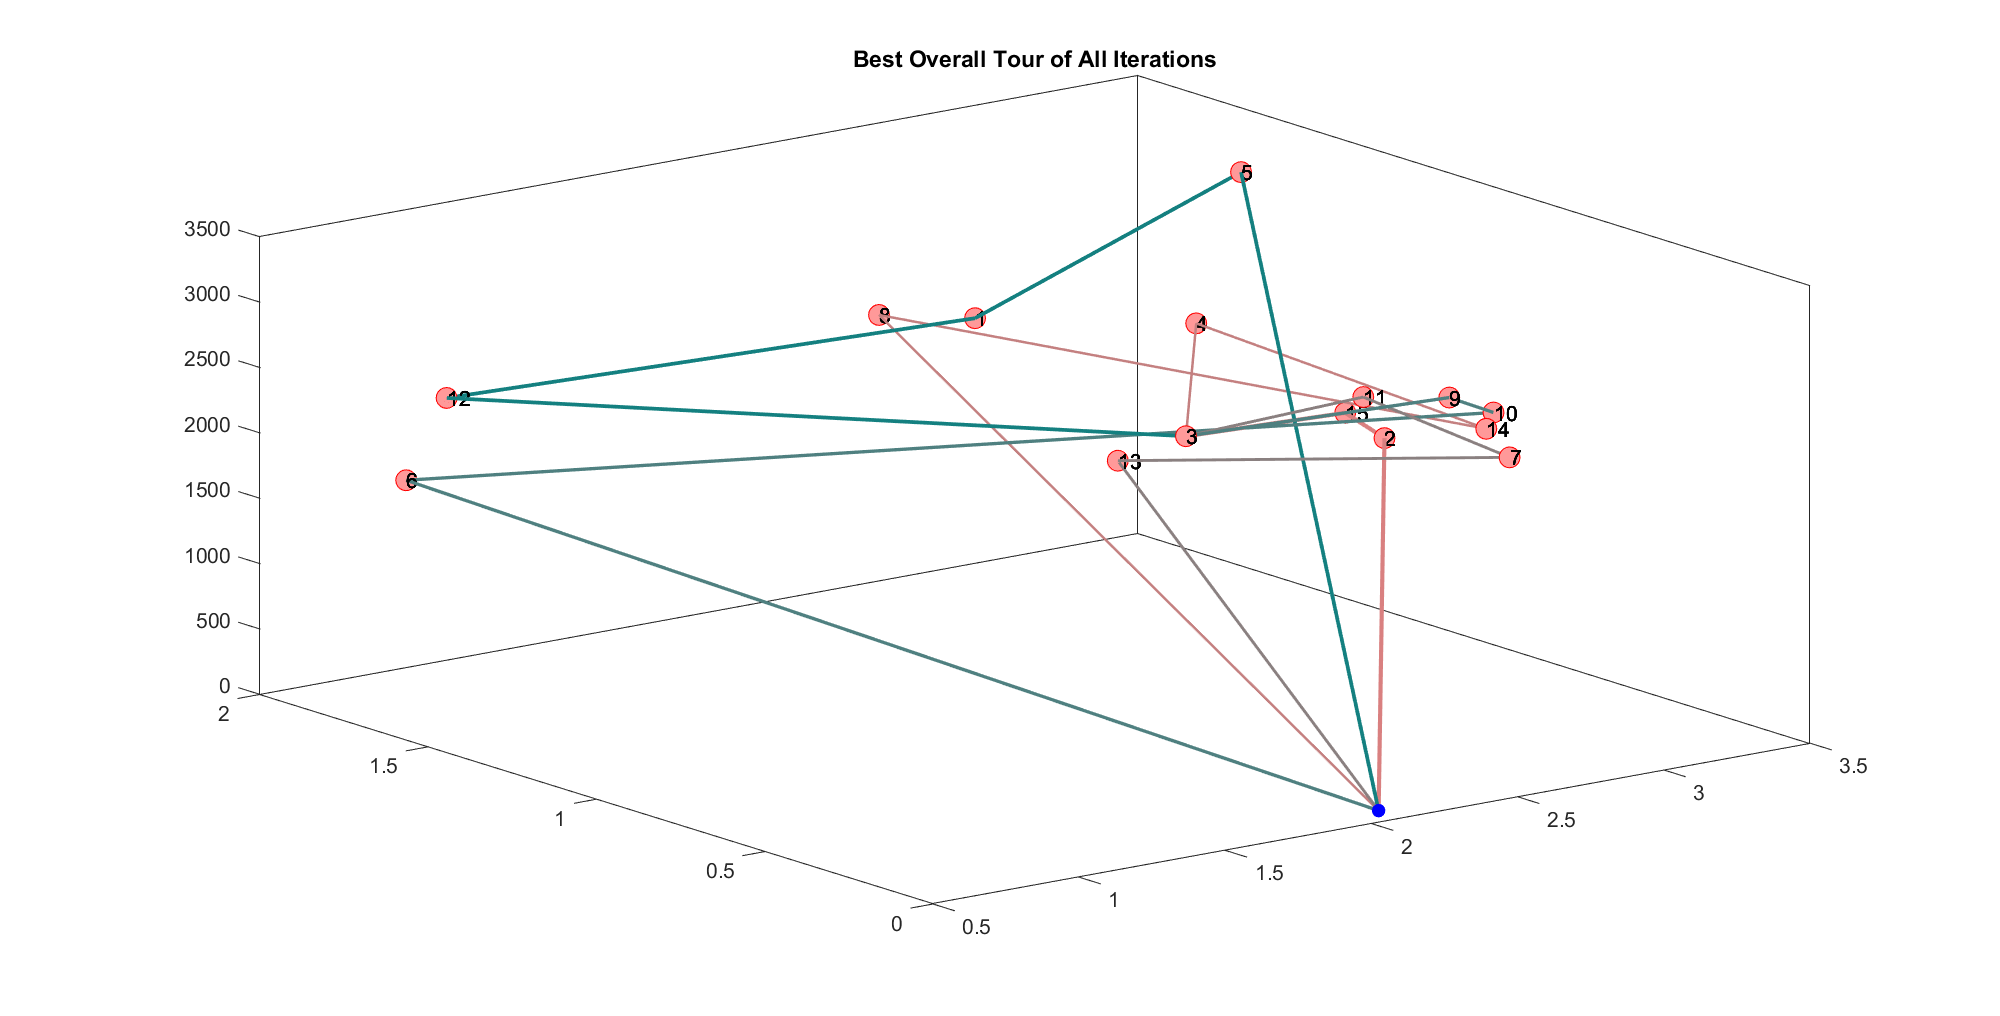
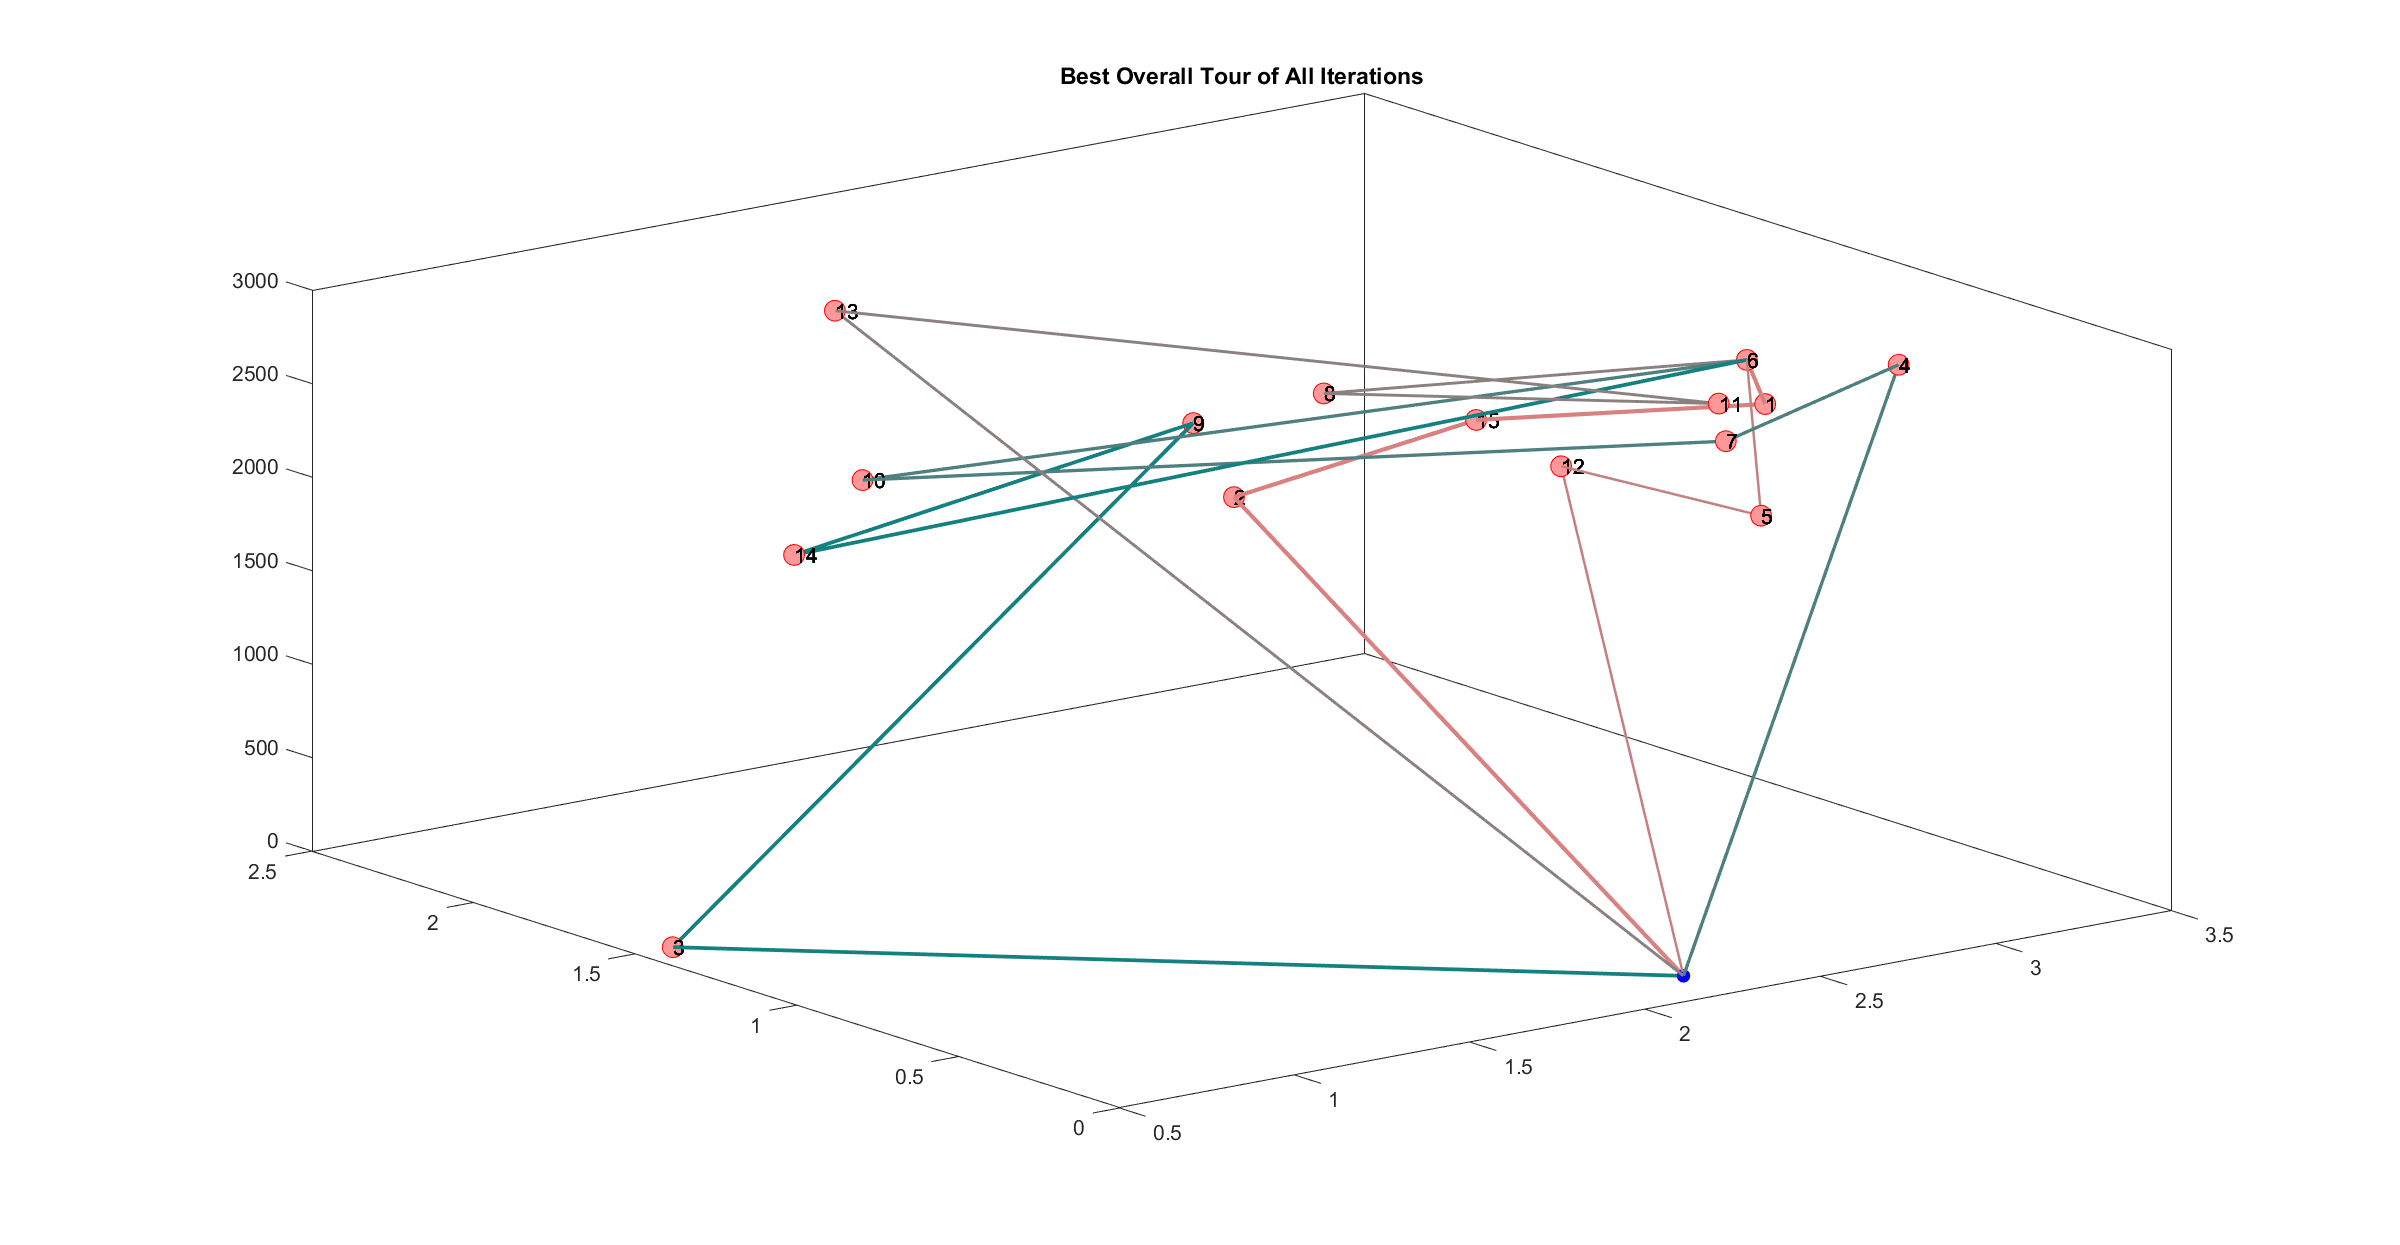
Fixed major bugs + structures
Changed the structural organization so that it utilized more structs, enabling for easier readability and program analysis.
Fixed previous bugs related to pheromone concentrations.

diff --git a/Code/ACO.m b/Code/ACO.m
@@ -1,115 +1,119 @@
 clear all
+close all
 clc
+tic; %start the program timer
 %% Problem Preparation
 %get the fires and drones
-tic;
-fires = createFires();
+
+environment.fires = createFires();
 droneNo = 5; %agents in CVRP
-[drones] = createDrones(fires, droneNo);
-netFireSum = sum(fires.intensity);
-netDroneExtSum = sum(drones.capac);
+[drones] = createDrones(environment.fires, droneNo);
+environment.netFireSum = sum(environment.fires.intensity);
+drones.netDroneExtSum = sum(drones.capac);
 
 %Create the graph
-[graph] = createGraph(fires.locX, fires.locY, fires.locZ);
+[graph] = createGraph(environment.fires.locX, environment.fires.locY, environment.fires.locZ);
 
 %Draw the graph
-fig1 = figure('Position', get(0, 'Screensize'));
+graphFigures.fig1 = figure('Position', get(0, 'Screensize'));
 subplot(2, 4, 1)
 drawGraph(graph);
 subplot(2, 4, 2);
 drawGraphWithDrones(graph, drones);
 
 %% Initial Parameters
-maxIter = 10; %1
-antNo = 50; %5
+environment.maxIter = 10; %1
+drones.antNo = 50; %5
 
-tau0 = 10 * 1 / (graph.n * mean(graph.edges(:) ) );
-eta = 1 ./ graph.edges; %edge desirability
+drones.tau0 = 10 * 1 / (graph.n * mean(graph.edges(:) ) );
+graph.eta = 1 ./ graph.edges; %edge desirability
 
 %Start the process of creating a 3D tau matrix
-tau = tau0 * ones(graph.n, graph.n);
-for t = 1: 1: droneNo - 1
-    tau(:,:,t + 1) = tau0 * ones(graph.n, graph.n);
+drones.tau = drones.tau0 * ones(graph.n, graph.n);
+for t = 1: droneNo - 1
+    drones.tau(:,:,t + 1) = drones.tau0 * ones(graph.n, graph.n);
 end
 
-rho = 0.5; % Evaporation rate 
-alpha = 1;  % Pheromone exponential parameters 
-beta = 1;  % Desirability exponetial parameter
+environment.rho = 0.5; % Evaporation rate 
+environment.alpha = 1;  % Pheromone exponential parameters 
+environment.beta = 1;  % Desirability exponetial parameter
 
 %initial base conditions: extreme ones which the program will obviously
 %beat
 %purpose is to initialize all of the variables
-bestFireFitness = inf(1, droneNo);
-bestFireDist = zeros(1, droneNo); %best fire's distance
-bestFireFit1 = zeros(1, droneNo);
-bestFireFit2 = zeros(1, droneNo);
-bestFireFit3 = zeros(1, droneNo);
+drones.bestFireFitness = inf(1, droneNo);
+drones.bestFireDist = zeros(1, droneNo); %best fire's distance
+
+%stores individual fire fitness values
+drones.bestFireFit1 = zeros(1, droneNo);
+drones.bestFireFit2 = zeros(1, droneNo);
+drones.bestFireFit3 = zeros(1, droneNo);
 bestTour = {};
-colony = [];
-bestOverallFitness = zeros(1, droneNo); %datapoint that shows overall how ideal the whole solution is
-allUsedNodes = []; %keeps track of all the nodes that are visited
-bestSolutionsFound = zeros(1, droneNo) %check if best solutions are found
+drones.colony = [];
+drones.bestOverallFitness = zeros(1, droneNo); %datapoint that shows overall how ideal the whole solution is
+drones.allUsedNodes = []; %keeps track of all the nodes that are visited
+drones.bestSolutionsFound = zeros(1, droneNo) %check if best solutions are found
 
 %% Main Loop of ACO
 
 
 t = 1; %fenceposting
-% && bestOverallFitness ~= (0.01 * droneNo)
+
 for d = 1: droneNo
 
     %create ants
-    while t <= maxIter && bestSolutionsFound(d) ~= 1
-        colony = createColonies(t, graph, fires.intensity, drones.capac(d), d, colony, antNo, tau(:,:,d), eta, alpha, beta, allUsedNodes);
-        for k = 1: antNo 
+    while t <= environment.maxIter && drones.bestSolutionsFound(d) ~= 1
+        drones.colony = createColonies(t, graph, environment.fires.intensity, drones.capac(d), d, drones.colony, drones.antNo, drones.tau(:,:,d), graph.eta, environment.alpha, environment.beta, drones.allUsedNodes);
+        for k = 1: drones.antNo 
             %calculate fitnesses of all ants in a specific drone ant colony
-            colony(d).ant(k).distFitness = distFitnessFunction(drones, d, colony(d).ant(k).tour,  graph);
-            [fireOverall, fireFit1, fireFit2, fireFit3] = fireFitnessFunction(colony(d).ant(k), drones.capac(d), droneNo, length(fires.locX));
+            drones.colony(d).ant(k).distFitness = distFitnessFunction(drones, d, drones.colony(d).ant(k).tour,  graph);
+            [fireOverall, fireFit1, fireFit2, fireFit3] = fireFitnessFunction(drones.colony(d).ant(k), drones.capac(d), droneNo, length(environment.fires.locX));
             
             %stores variables into the colony struct.
-            colony(d).ant(k).fireFitness = fireOverall;
-            colony(d).ant(k).fireTotDiff = fireFit1;
-            colony(d).ant(k).fireEq = fireFit2;
-            colony(d).ant(k).fireInt = fireFit3;
+            drones.colony(d).ant(k).fireFitness = fireOverall;
+            drones.colony(d).ant(k).fireTotDiff = fireFit1;
+            drones.colony(d).ant(k).fireEq = fireFit2;
+            drones. colony(d).ant(k).fireInt = fireFit3;
         end
         
         %check if any of the ants offer a better solution than the ones
         %found already
-        for k = 1: 1: antNo
-            if bestFireFitness(1, d) > colony(d).ant(k).fireFitness
-                bestFireFitness(1, d) = colony(d).ant(k).fireFitness;
-                bestTour{d} = colony(d).ant(k).tour;
-                bestFireDist(1, d) = colony(d).ant(k).distFitness;
-                bestFireFit1(1, d) = colony(d).ant(k).fireTotDiff;
-                bestFireFit2(1, d) = colony(d).ant(k).fireEq;
-                bestFireFit3(1, d) = colony(d).ant(k).fireInt;
+        for k = 1: 1: drones.antNo
+            if drones.bestFireFitness(1, d) > drones.colony(d).ant(k).fireFitness
+                drones.bestFireFitness(1, d) = drones.colony(d).ant(k).fireFitness;
+                bestTour{d} = drones.colony(d).ant(k).tour;
+                drones.bestFireDist(1, d) = drones.colony(d).ant(k).distFitness;
+                drones.bestFireFit1(1, d) = drones.colony(d).ant(k).fireTotDiff;
+                drones.bestFireFit2(1, d) = drones.colony(d).ant(k).fireEq;
+                drones.bestFireFit3(1, d) = drones.colony(d).ant(k).fireInt;
             else
             end
         end
     
         %Find the best ant of this colony
-        colony(d).queen.tour = bestTour{d};
-        colony(d).queen.fireTotDiff = bestFireFit1(1, d);
-        colony(d).queen.fireEq = bestFireFit2(1, d);
-        colony(d).queen.fireInt = bestFireFit3(1, d);
-        colony(d).queen.fireFitness = bestFireFitness(1, d);
+        drones.colony(d).queen.tour = bestTour{d};
+        drones.colony(d).queen.fireTotDiff = drones.bestFireFit1(1, d);
+        drones.colony(d).queen.fireEq = drones.bestFireFit2(1, d);
+        drones.colony(d).queen.fireInt = drones.bestFireFit3(1, d);
+        drones.colony(d).queen.fireFitness = drones.bestFireFitness(1, d);
 %         
         %Update pheromone matrix
-        tau(:, :, d) = updatePheromone(tau(:, :, d), colony(d));
+        drones.tau(:, :, d) = updatePheromone(drones.tau(:, :, d), drones.colony(d));
         
         %Evaporation
-        tau(:, :, d) = (1 - rho) .* tau(:, :, d);
-        outmsg = ['Iteration = #', num2str(t), ' Drone = #' , num2str(d), ' Fitness = # ', num2str(colony(d).queen.fireFitness(1, 1)) ];
+        drones.tau(:, :, d) = (1 - environment.rho) .* drones.tau(:, :, d);
+        outmsg = ['Iteration = #', num2str(t), ' Drone = #' , num2str(d), ' Fitness = # ', num2str(drones.colony(d).queen.fireFitness(1, 1)) ];
         %enables for tracking of progress by displaying output.
         disp(outmsg)
         subplot(2, 4, 3)
-        drawBestTour(colony(d), drones, d, graph);
+        drawBestTour(drones.colony(d), drones, d, graph);
         title('Best Tour of Iteration # ', num2str(t))
         
         %Visualize best tour and pheromone concentration (for five drones)
         if (d < 6)
             subplot(2, 4, d + 3)
             cla
-            drawPheromone(tau(:, :, d), graph);
+            drawPheromone(drones.tau(:, :, d), graph);
             drawnow
             title('Pheromones of Drone # ', num2str(d))
         else
@@ -117,15 +121,15 @@ for d = 1: droneNo
         
         %serves if the ultra ideal solution is found so that the code stops
         %iterating
-        if colony(d).queen.fireFitness == 0.01 && bestSolutionsFound(d) == 0
-           bestSolutionsFound(d) = 1;      
+        if drones.colony(d).queen.fireFitness == 0.01 && drones.bestSolutionsFound(d) == 0
+           drones.bestSolutionsFound(d) = 1;      
         else
         end
         
         %another progress checking mechanism that gets cleared after every
         %iteration, with the final one for the last drone being the one
         %saved
-        if t ~= maxIter
+        if t ~= environment.maxIter
             cla(subplot(2, 4, 3))
         else
         end
@@ -134,9 +138,9 @@ for d = 1: droneNo
     
     %converts all the bestTour nodes to a matrix that denotes all the nodes
     %visited, which is used later
-    allUsedNodes = cell2mat(bestTour);
+    drones.allUsedNodes = cell2mat(bestTour);
     t = 1;
-    if length(allUsedNodes) == length(fires.locX)
+    if length(drones.allUsedNodes) == length(environment.fires.locX)
         break
     else
     end
@@ -144,50 +148,54 @@ end
 
 %% Cooperative Search Part to Target Untargeted Fires
 
-allUnusedNodes = zeros(1, length(fires.intensity) - length(allUsedNodes));
+drones.allUnusedNodes = zeros(1, length(environment.fires.intensity) - length(drones.allUsedNodes));
 uCounter = 1;
 
 %variable that denotes if less than 5 drones have been used for the
 %particular problem
-actualNumberDronesUsed = length(bestTour);
+drones.actualNumberDronesUsed = length(bestTour);
 
 %records all the nodes that have not been used, which is used for the
 %cooperative solution finding
-for i = 1: length(fires.intensity)
-    if ~(ismembertol(i, allUsedNodes))
-        allUnusedNodes(1, uCounter) = i;
+for i = 1: length(environment.fires.intensity)
+    if ~(ismembertol(i, drones.allUsedNodes))
+        drones.allUnusedNodes(1, uCounter) = i;
         uCounter = uCounter + 1;
     else
     end
 end
 
 droneNumber = 1;
-uIntensity = zeros(1, length(allUnusedNodes));
+environment.fires.uIntensity = zeros(1, length(drones.allUnusedNodes));
 %records intensity of the fires in the unused nodes
-for i = 1: length(allUnusedNodes)
-    uIntensity(1, i) = fires.intensity(allUnusedNodes(1, i));
+for i = 1: length(drones.allUnusedNodes)
+    environment.fires.uIntensity(1, i) = environment.fires.intensity(drones.allUnusedNodes(1, i));
 end
 
 
-for i = 1: length(allUnusedNodes)
-    while (~(droneNumber > droneNo) && uIntensity(1, i) ~= 0)
+for i = 1: length(drones.allUnusedNodes)
+    while (~(droneNumber > droneNo) && environment.fires.uIntensity(1, i) ~= 0)
         %drones with no fire extinguisher are not rerouted
-        if (colony(droneNumber).queen.fireTotDiff <= 0.000000001)
+        if (drones.colony(droneNumber).queen.fireTotDiff <= 0.05)
             droneNumber = droneNumber + 1;
         %routing drones and setting new fire values for fires that require
         %the drone to expend all of its fire extinguisher
-        elseif (uIntensity(1, i) - colony(droneNumber).queen.fireTotDiff >= 0)    
-            uIntensity(1, i) = uIntensity(1, i) - colony(droneNumber).queen.fireTotDiff;
-            colony(droneNumber).queen.tour = [colony(droneNumber).queen.tour, allUnusedNodes(1, i)];
-            bestTour{droneNumber} = [bestTour{droneNumber}, allUnusedNodes(1, i) + colony(droneNumber).queen.fireTotDiff / fires.intensity(allUnusedNodes(1, i))];
-            colony(droneNumber).queen.fireTotDiff = 0;
+        elseif (environment.fires.uIntensity(1, i) - drones.colony(droneNumber).queen.fireTotDiff >= 0)    
+            environment.fires.uIntensity(1, i) = environment.fires.uIntensity(1, i) - drones.colony(droneNumber).queen.fireTotDiff;
+            drones.colony(droneNumber).queen.tour = [drones.colony(droneNumber).queen.tour, drones.allUnusedNodes(1, i)];
+            bestTour{droneNumber} = [bestTour{droneNumber}, drones.allUnusedNodes(1, i) + drones.colony(droneNumber).queen.fireTotDiff / environment.fires.intensity(drones.allUnusedNodes(1, i))];
+            drones.colony(droneNumber).queen.fireTotDiff = 0;
             droneNumber = droneNumber + 1;
         %if the drone has fire extinguisher left after fighting one fire
         else
-            bestTour{droneNumber} = [bestTour{droneNumber}, allUnusedNodes(1, i) + colony(droneNumber).queen.fireTotDiff / fires.intensity(allUnusedNodes(1, i))];
-            colony(droneNumber).queen.fireTotDiff = colony(droneNumber).queen.fireTotDiff - uIntensity(1, i);
-            uIntensity(1, i) = 0;
-            colony(droneNumber).queen.tour = [colony(droneNumber).queen.tour, allUnusedNodes(1, i)];
+            if (environment.fires.uIntensity(1, i) == environment.fires.intensity(drones.allUnusedNodes(1, i)))
+                bestTour{droneNumber} = [bestTour{droneNumber}, drones.allUnusedNodes(1, i)];
+            else
+                bestTour{droneNumber} = [bestTour{droneNumber}, drones.allUnusedNodes(1, i)+ environment.fires.uIntensity(1, i) / environment.fires.intensity(drones.allUnusedNodes(1, i))]; %+ drones.colony(droneNumber).queen.fireTotDiff / environment.fires.intensity(drones.allUnusedNodes(1, i))];
+            end
+            drones.colony(droneNumber).queen.fireTotDiff = drones.colony(droneNumber).queen.fireTotDiff - environment.fires.uIntensity(1, i);
+            environment.fires.uIntensity(1, i) = 0;
+            drones.colony(droneNumber).queen.tour = [drones.colony(droneNumber).queen.tour, drones.allUnusedNodes(1, i)];
         end
     end
 end
@@ -198,48 +206,48 @@ timeElapsed = toc
 %% Graph the Best Tour as a separate figure
 
 %graph best tours
-fig2 = figure('Position', get(0, 'Screensize'));
+graphFigures.fig2 = figure('Position', get(0, 'Screensize'));
 
 %Graph best tours for all drones that were used
-for d = 1: actualNumberDronesUsed
-    drawBestTour(colony(d), drones, d, graph);
-    bestOverallFitness(1, d) = colony(d).queen.fireFitness;
+for d = 1: drones.actualNumberDronesUsed
+    drawBestTour(drones.colony(d), drones, d, graph);
+    bestOverallFitness(1, d) = drones.colony(d).queen.fireFitness;
 end
 title('Best Overall Tour of All Iterations')
 
 %% Format data output and store as excel files
 
 %Convert to tables so we can set labels for row and columns
-droneColNames = string([1, droneNo]);
+outputTable.droneColNames = string([1, droneNo]);
 for i = 1: length(bestTour)
     colName = "Drone #" + num2str(i);
-    droneColNames(1, i) = colName;
+    outputTable.droneColNames(1, i) = colName;
 end
 
-tourTable = cell2table(bestTour, 'VariableNames', droneColNames);
-droneIntensityTable = array2table(drones.capac, 'VariableNames', droneColNames);
-overallFitnessTable = array2table(bestOverallFitness, 'VariableNames', droneColNames);
+outputTable.tourTable = cell2table(bestTour, 'VariableNames', outputTable.droneColNames);
+outputTable.droneIntensityTable = array2table(drones.capac, 'VariableNames', outputTable.droneColNames);
+outputTable.overallFitnessTable = array2table(drones.bestOverallFitness, 'VariableNames', outputTable.droneColNames);
 
 %format the tables so we can save them in an excel file with multiple
 %sheets
-fireColNames = string([1, length(fires.locX)]);
-for i = 1: length(fires.locX)
+outputTable.fireColNames = string([1, length(environment.fires.locX)]);
+for i = 1: length(environment.fires.locX)
     colName = "Fire #" + num2str(i);
-    fireColNames(1, i) = colName;
+    outputTable.fireColNames(1, i) = colName;
 end
-fireIntensityTable = array2table(fires.intensity, 'VariableNames', fireColNames);
-rowName = "Time Elapsed";
-timeElapsedTable = array2table(timeElapsed, 'RowNames', rowName);
-fileName = 'southpuget-trial-data.xlsx';
-sheetName = 'trial5';
+outputTable.fireIntensityTable = array2table(environment.fires.intensity, 'VariableNames', outputTable.fireColNames);
+outputTable.rowName = "Time Elapsed";
+outputTable.timeElapsedTable = array2table(timeElapsed, 'RowNames', outputTable.rowName);
+outputTable.fileName = 'southpuget-trial-data.xlsx';
+outputTable.sheetName = 'trial5';
 
-writetable(tourTable,fileName,'Sheet', sheetName, 'Range', 'A1');
-writetable(droneIntensityTable,fileName,'Sheet', sheetName, 'Range', 'A4');
-writetable(overallFitnessTable,fileName,'Sheet', sheetName, 'Range', 'A7');
-writetable(fireIntensityTable,fileName,'Sheet', sheetName, 'Range', 'A10');
-writetable(timeElapsedTable, fileName, 'Sheet', sheetName, 'Range', 'A13');
+writetable(outputTable.tourTable,outputTable.fileName,'Sheet', outputTable.sheetName, 'Range', 'A1');
+writetable(outputTable.droneIntensityTable,outputTable.fileName,'Sheet', outputTable.sheetName, 'Range', 'A4');
+writetable(outputTable.overallFitnessTable,outputTable.fileName,'Sheet', outputTable.sheetName, 'Range', 'A7');
+writetable(outputTable.fireIntensityTable,outputTable.fileName,'Sheet', outputTable.sheetName, 'Range', 'A10');
+writetable(outputTable.timeElapsedTable, outputTable.fileName, 'Sheet', outputTable.sheetName, 'Range', 'A13');
 
 %save the figures used as png files in the project folder
-saveas(fig1, 'southpuget-trial5-tours.png','png');
-saveas(fig2, 'southpuget-trial5-best-tour.png','png');
+saveas(graphFigures.fig1, 'southpuget-trial5-tours.png','png');
+saveas(graphFigures.fig2, 'southpuget-trial5-best-tour.png','png');
 

diff --git a/Code/createFires.m b/Code/createFires.m
@@ -1,5 +1,5 @@
 function [fires] = createFires() %get fire values
-    t = table2cell(readtable('../data-manipulation/southpuget-samples.xlsx', 'sheet', 'Sheet9'));
+    t = table2cell(readtable('../data-manipulation/pascascades-samples.xlsx', 'sheet', 'Sheet9'));
     %convert from cell to array and transpose it (')
     fires.intensity = cell2mat(t(:, 8))'; 
     %all the values are by default raised to 10^5 (due to actual distances), 

diff --git a/Code/drawPheromone.m b/Code/drawPheromone.m
@@ -3,7 +3,11 @@ function [ ] = drawPheromone(tau , graph)
 maxTau = max(tau(:));
 minTau = min(tau(:));
 
-tau_normalized = (tau - minTau) ./ (maxTau - minTau);
+if (maxTau - minTau == 0)
+    tau_normalized = (tau - minTau)
+else
+    tau_normalized = (tau - minTau) ./ (maxTau - minTau);
+end
 
 for i = 1 : graph.n -1 
     for j = i+1 : graph.n
